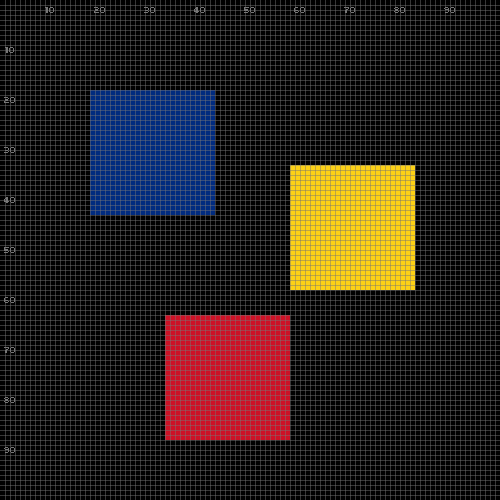
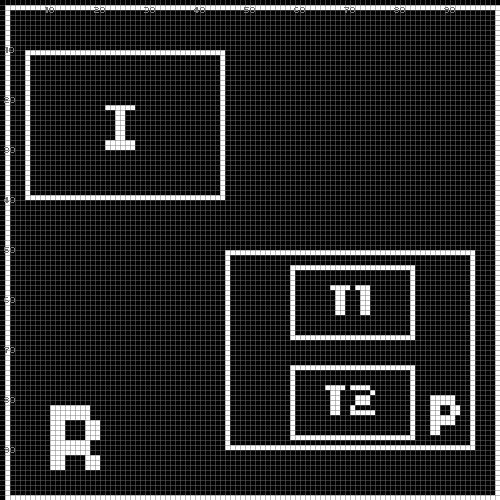
- guide images

Changed region(s): [[0.0, 0.0, 1.0, 1.0], [0.33, 0.33, 0.96, 0.9], [0.09, 0.81, 0.21, 0.96]]

diff --git a/lua/doc/guide.md b/lua/doc/guide.md
@@ -808,12 +808,24 @@ for further operations.
 
 ### 7.4. Hierarchy
 
-So far we attached every new layer with `up=nil` and composited them manually
-with `pico.output.draw.layer`.
-We can instead pass a parent name as `up`: the layer is then attached to the
-hierarchy and auto-composites on every frame.
+Layers in `pico-lua` can form a tree hierarchy, such that calls to
+`pico.output.present` redraws the whole scene automatically.
 
-A child layer can itself become a parent, building a tree:
+When creating a layer (e.g., `me`), we can pass another layer (e.g., `up`) to
+become its parent:
+
+```
+pico.layer.empty("up", "me", ...)   -- "up" is parent of "me"
+pico.set.layer("me")                -- setup "me"
+pico.set.view {                     -- position "me" within "up"
+    target = {'%', x=0.5, y=0.5, w=0.5, h=0.5}
+}
+```
+
+After we create the layer, we set the target region within its parent.
+In the example, the child layer `me` is centered inside parent layer `up`.
+
+<img src="../tst/asr/guide-07-04-01.png" width="200">
 
 <table>
 <tr><td><pre>
@@ -821,29 +833,29 @@ A child layer can itself become a parent, building a tree:
 > do
     pico.layer.image("root", "pic", "open.png")
     pico.set.layer("pic")
-    pico.set.view  { target = {'%', x=0.3, y=0.3, w=0.4} }
+    pico.set.view { target = {'%', x=0.3, y=0.3, w=0.4} }
   end
 > do
     pico.layer.empty("root", "panel", {w=100, h=50})
     pico.set.layer("panel")
-    pico.set.show  { color='silver' }
-    pico.set.view  { target = {'%', x=0.7, y=0.7, w=0.4} }
+    pico.set.show { color='silver' }
+    pico.set.view { target = {'%', x=0.7, y=0.7, w=0.4} }
 >   do
         pico.layer.text("panel", "hello", 20, "Hello")
         pico.set.layer("hello")
-        pico.set.view  { target = {'%', x=0.5, y=0.3, h=0.6} }
+        pico.set.view { target = {'%', x=0.5, y=0.3, h=0.6} }
     end
 >   do
         pico.layer.text("panel", "world", 20, "World!")
         pico.set.layer("world")
-        pico.set.view  { target = {'%', x=0.5, y=0.7, h=0.4} }
+        pico.set.view { target = {'%', x=0.5, y=0.7, h=0.4} }
     end
   end
 > pico.set.layer()
 > pico.output.present()
 </pre>
 </td><td>
-<img src="../tst/asr/guide-07-04-01.png" width="200">
+<img src="../tst/asr/guide-07-04-02.png" width="200">
 </td></tr>
 </table>
 